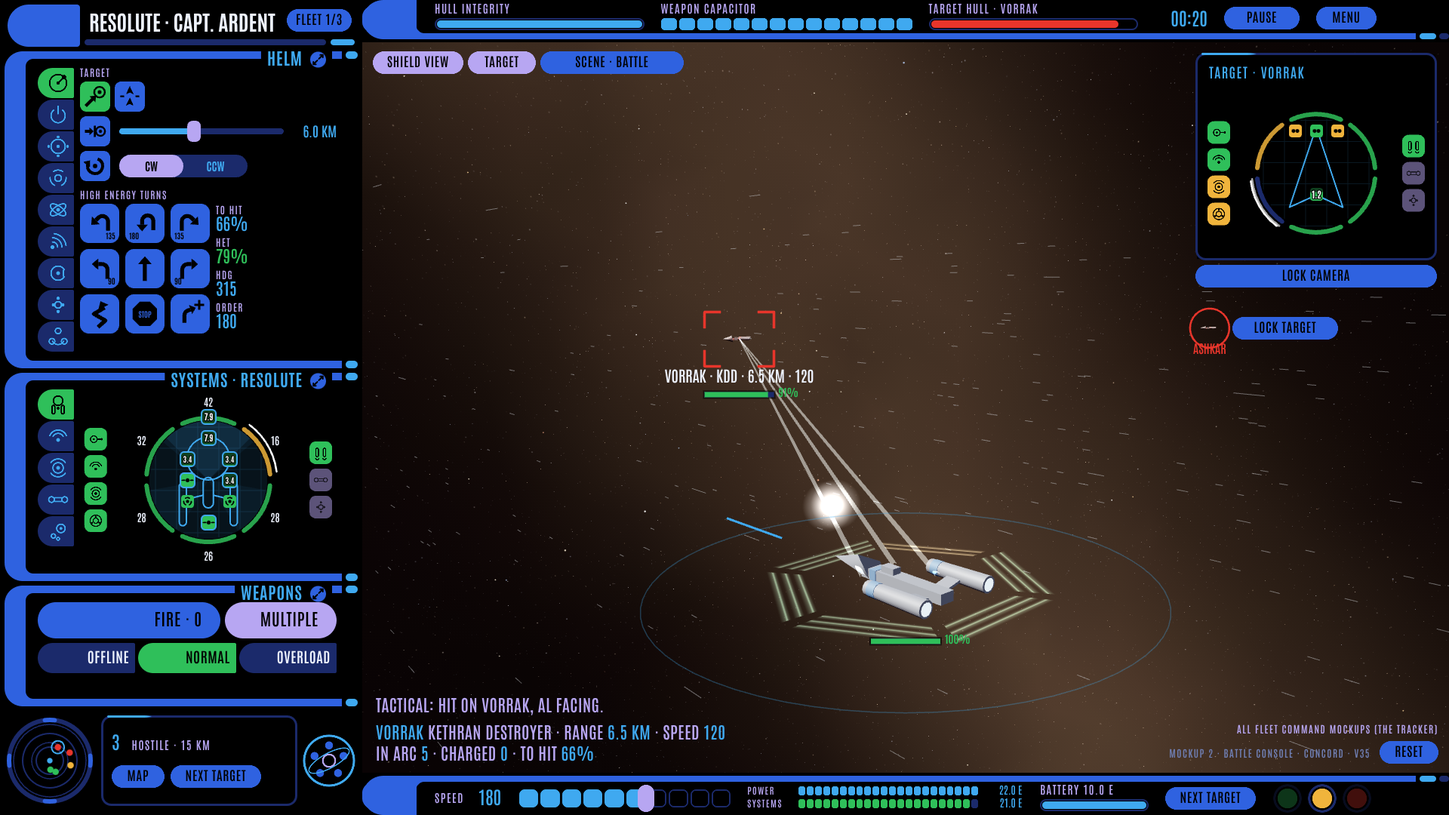
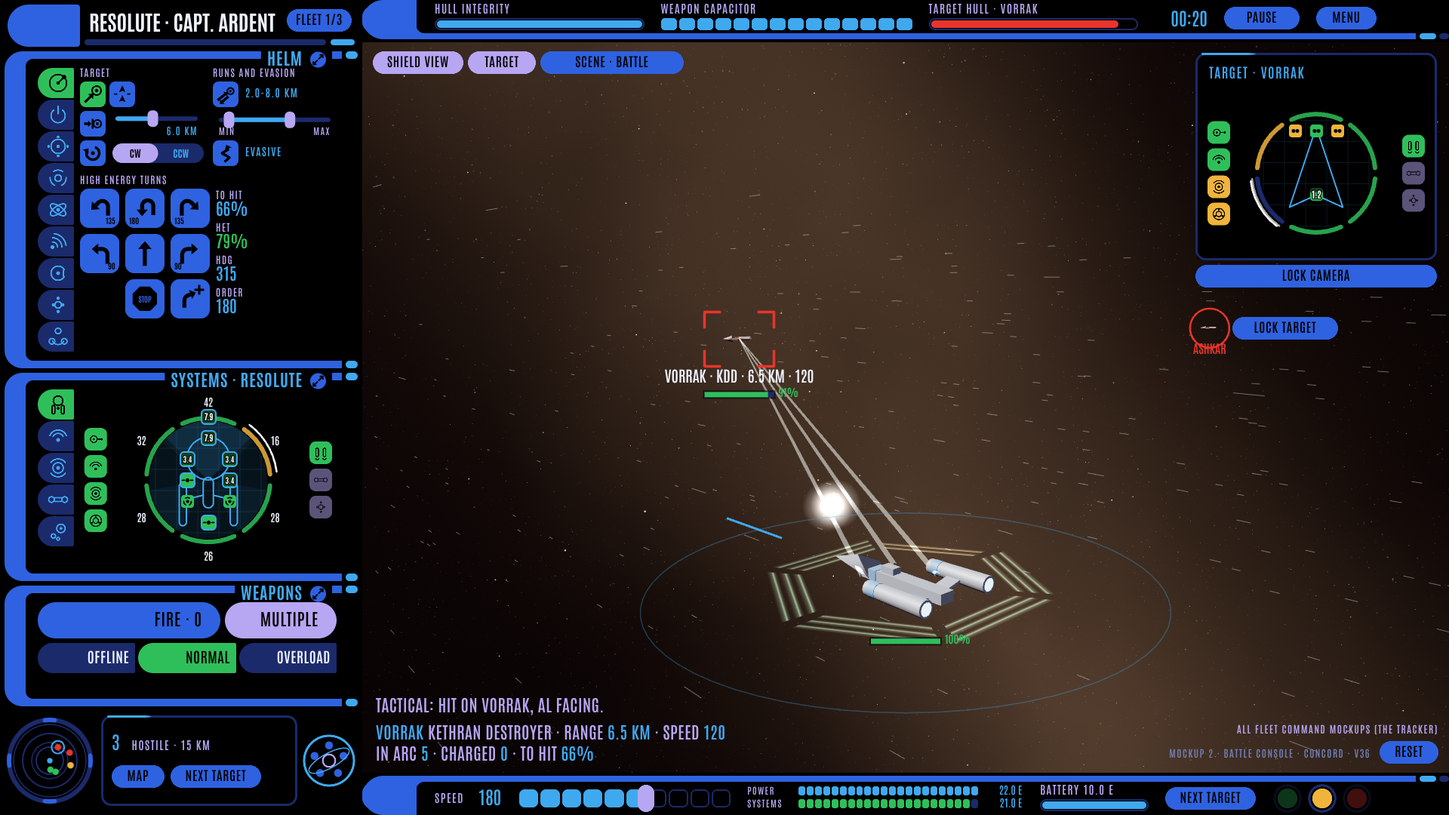
Battle console v36: a big ship explosion; hit and run with a two-handled range slider; evasive manoeuvres as a toggle
Claude-Session: https://claude.ai/code/session_01RGPQuqAYNNJKpzbbbZ3BfB

Changed region(s): [[0.0312, 0.0611, 0.25, 0.4278]]

diff --git a/docs/mockups/battle-console.html b/docs/mockups/battle-console.html
@@ -733,7 +733,7 @@ function makeShip(d) {
     scan: { id: null, p: 0 }, tractor: 'off', powerT: 0, beam: null, relock: null, mineCool: 0, bumpT: 0, raid: null, party: null, guard: BOARD.guard_crew, captured: false, team: { ...TEAM_DEFAULT, ...(c.team || {}) }, cargo: 0, cargoCap: 20, vip: null, shuttles: 0, missiles: 0, barrage: 0, barrageT: 0, pd: 'auto', transporter: 1, marines: c.marines, mines: c.mines, fighters: c.fighters, mission: 'attack',
     reactor: { coils: [0, 0, 0], conf: 1, loops: [{ flow: 1, hp: 1 }, { flow: 1, hp: 1 }], temp: 50, melt: 0, warned: false, coolant: 1 }, brown: 1, overdraw: false,
     warp: { banks: 0, plot: 0, plotH: null, plotting: false, override: false, nacelles: [{ hp: 1 }, { hp: 1 }], out: 0 },
-    het: null, hetChance: clamp(0.95 - c.len_m / 2000, 0.6, 0.95), broke: 0, erratic: false, estop: false, estopT: 0, orbitDir: 1, holdKm: 6,
+    het: null, hetChance: clamp(0.95 - c.len_m / 2000, 0.6, 0.95), broke: 0, erratic: false, estop: false, estopT: 0, orbitDir: 1, holdKm: 6, runMin: 2, runMax: 8, runPhase: 'in',
     alert: 'yellow', priority: 'engines', alive: true, flash: [0, 0, 0, 0, 0, 0], thinkT: 0, volley: true, intercepts: 0 };
 }
 let sceneId = 'battle';
@@ -963,7 +963,7 @@ function reactorStep(s) {
 }
 function meltdown(s) {
   s.alive = false; s.hull = 0; s.v = 0;
-  boomAt(s.x, s.z, CLASSES[s.cls].len_m / M_PER_U * 2.5); const o = MODELS.get(s.id); if (o) o.g.visible = false;
+  bigBoom(s.x, s.z, CLASSES[s.cls].len_m / M_PER_U * 1.6, FACTION[s.faction].hull); const o = MODELS.get(s.id); if (o) o.g.visible = false;
   say('Engineering', `${s.name}: reactor meltdown.`);
   for (const t of W.ships) if (t.alive && distKm(s, t) <= REACTOR.blast_km) damage(t, s, REACTOR.blast_dmg * (1 - distKm(s, t) / REACTOR.blast_km), 'hull');
   for (const o2 of W.ships) if (o2.target === s.id) o2.target = null;
@@ -1002,6 +1002,10 @@ function steer(s, order, t, rangeKm) {
     s.hOrder = d2 > 2 ? Math.atan2(ax - s.x, -(az - s.z)) : t.h; s.vOrder = clamp(Math.abs(t.v) + (d2 > 2 ? d2 * 20 : 0), 0, vmax); }
   // approach and hold a distance (owner, 2026-11-02: "also need approach and maintain distance"), set by its slider
   else if (order === 'hold_range') { s.hOrder = d > s.holdKm * 1.1 ? toT : d < s.holdKm * 0.9 ? wrap(toT + P) : wrap(toT + P / 2); s.vOrder = d > s.holdKm * 1.1 || d < s.holdKm * 0.9 ? vmax : Math.max(60, Math.abs(t.v)); }
+  // hit and run (owner, 2026-11-02: "hit and run, to move attack, and move away"): run in at full speed to the minimum
+  // range, then away to the maximum, and again
+  else if (order === 'hit_run') { if (s.runPhase === 'in' && d <= s.runMin) s.runPhase = 'out'; else if (s.runPhase === 'out' && d >= s.runMax) s.runPhase = 'in';
+    s.hOrder = s.runPhase === 'in' ? toT : wrap(toT + P); s.vOrder = vmax; }
   else if (order === 'orbit') { const c2 = clamp((d - HELM.orbit_km) / HELM.orbit_km, -1, 1); s.hOrder = wrap(toT + s.orbitDir * (P / 2 - c2 * P / 4)); }
 }
 // Every ship but the player's thinks twice a second: pick a target by its rule, steer by its stance, fire if free.
@@ -1146,9 +1150,10 @@ function craftStep() {
 const A = {
   turn: (deg) => { const s = W.player; s.engaged = false; s.hOrder = wrap(s.hOrder + deg * DEG); },
   // The helm officer's orders toward the target, toggles: pressing the lit one returns to free heading.
+  runRange: (lo, hi) => { const s = W.player, r2 = (v) => clamp(Math.round(v * 2) / 2, HELM.hold_min_km, HELM.hold_max_km); s.runMin = Math.min(r2(lo), r2(hi) - 0.5); s.runMax = Math.max(r2(hi), s.runMin + 0.5); },
   holdKm: (v) => { W.player.holdKm = clamp(Math.round(v * 2) / 2, HELM.hold_min_km, HELM.hold_max_km); },
   helmOrder: (o) => { const s = W.player; if (o === 'free' || (s.engaged && s.order === o)) { s.engaged = false; say('Helm', 'Free heading.'); return; }
-    if (!tgt(s)) { say('Helm', 'No target.'); return; } s.order = o; s.engaged = true; say('Helm', `${{ intercept: 'Intercepting', trail: 'Trailing', orbit: 'Orbiting', hold_range: `Holding ${km(s.holdKm)} from` }[o]} ${tgt(s).name}.`); },
+    if (!tgt(s)) { say('Helm', 'No target.'); return; } s.order = o; s.engaged = true; say('Helm', `${{ intercept: 'Intercepting', trail: 'Trailing', orbit: 'Orbiting', hold_range: `Holding ${km(s.holdKm)} from`, hit_run: `Hit and run, ${s.runMin}-${s.runMax} km, on` }[o]} ${tgt(s).name}.`); if (o === 'hit_run') s.runPhase = 'in'; },
   orbitDir: () => { const s = W.player; s.orbitDir = -s.orbitDir; },
   // A high energy turn by deg (negative to port), rolled against the HET chance; erratic manoeuvres make it harder.
   het: (deg) => { const s = W.player; if (s.het || s.broke > 0 || !s.alive) return;
@@ -1734,6 +1739,9 @@ function helmGlyph(kind, cx, cy, r, col) {
     if (kind === 'orbit.dir') { G.font = `700 ${Math.round(r * 0.46)}px Antonio`; G.textAlign = 'center'; G.textBaseline = 'middle'; G.fillText(d > 0 ? 'CW' : 'CCW', cx, cy + r * 0.04); G.textBaseline = 'alphabetic'; } }
   else if (kind === 'hold_range') { target(cx + r * 0.42, cy, r * 0.36); line([[cx - r * 0.8, cy], [cx - r * 0.35, cy]]); head(cx - r * 0.12, cy, 0, r * 0.32, r * 0.3);
     G.lineWidth = lw * 0.7; line([[cx - r * 0.02, cy - r * 0.45], [cx - r * 0.02, cy + r * 0.45]]); G.lineWidth = lw; }
+  else if (kind === 'hit_run') { target(cx + r * 0.45, cy - r * 0.3, r * 0.3);
+    line([[cx - r * 0.75, cy + r * 0.55], [cx + r * 0.05, cy - r * 0.08]]); head(cx + r * 0.2, cy - r * 0.2, -0.65, r * 0.32, r * 0.28);
+    line([[cx + r * 0.25, cy + r * 0.2], [cx - r * 0.35, cy + r * 0.72]]); head(cx - r * 0.55, cy + r * 0.9, 2.4, r * 0.32, r * 0.28); }
   else if (kind === 'erratic') { line([[cx - r * 0.1, cy + r * 0.8], [cx + r * 0.35, cy + r * 0.4], [cx - r * 0.35, cy], [cx + r * 0.3, cy - r * 0.38]]); head(cx + r * 0.05, cy - r * 0.78, -P / 2 - 0.45, r * 0.42, r * 0.34); }
   else if (kind === 'estop') { G.beginPath(); for (let i = 0; i < 8; i++) { const a = P / 8 + i * P / 4; G.lineTo(cx + Math.cos(a) * r * 0.8, cy + Math.sin(a) * r * 0.8); } G.closePath(); G.fill();
     G.fillStyle = CC.signal; G.font = `700 ${Math.round(r * 0.46)}px Antonio`; G.textAlign = 'center'; G.textBaseline = 'middle'; G.fillText('STOP', cx, cy + r * 0.03); G.textBaseline = 'alphabetic'; }
@@ -1757,39 +1765,58 @@ function helmKey(id, x, y, sz, kind, name, click, o = {}) {
 function stHelm(b, big) {
   const s = W.player, t = tgt(s), k = big ? 1.5 : 1, gap = 8 * k, row = (b.w - 3 * gap) / 4, ks = Math.min(row, big ? 84 : 52);
   let y = b.y;
-  LBL('Target', b.x, y + 12, 0, CC.lilac, 'left', 13 * k); y += 18 * k;
-  const ordOn = (o) => () => s.engaged && s.order === o, noT = () => !t, ts = Math.round(40 * k), tg = 6 * k;
-  // intercept and trail, then approach with its distance slider and orbit with its direction switch (owner, 2026-11-02:
-  // "add a config button with a slider to change distance. Combine orbit button with cw button, where cw button is a
-  // toggle slider. Do the same for approach button and its slider config as well")
+  // Orders toward the target in the left half; hit and run and evasive manoeuvres in the right (owner, 2026-11-02:
+  // "shrink the target maneuvers so it takes up half the panel, that way we can use the other half for more maneuver
+  // types like hit and run ... this will require a slider with two handles to pick min and max range", and "evasive
+  // maneuvers technically isn't an HET ability ... clicking it is a toggle")
+  const ordOn = (o) => () => s.engaged && s.order === o, noT = () => !t, ts = Math.round(34 * k), tg = 5 * k, half = (b.w - 12 * k) / 2, xr = b.x + half + 12 * k;
+  LBL('Target', b.x, y + 12, 0, CC.lilac, 'left', 13 * k); LBL('Runs and evasion', xr, y + 12, 0, CC.lilac, 'left', 13 * k); y += 18 * k;
+  const y0 = y;
+  // a slider: one handle, or two (min and max) when lo/hi are given
+  const slider = (id, x, yy, w, h, f0, f1, set, label) => {
+    const sy = yy + h / 2, two = f1 !== null;
+    hit(id, x - 8, yy, w + 16, h, { cursor: 'ew-resize', tip: label, drag: (px) => set(clamp((px - x) / w, 0, 1)), click: (px) => set(clamp((px - x) / w, 0, 1)) });
+    g.fillStyle = CC.deep; g.beginPath(); g.roundRect(x, sy - 3, w, 6, 3); g.fill();
+    g.fillStyle = CC.sky; g.beginPath(); g.roundRect(x + (two ? w * f0 : 0), sy - 3, w * ((two ? f1 : f0) - (two ? f0 : 0)), 6, 3); g.fill();
+    for (const f of two ? [f0, f1] : [f0]) { g.fillStyle = CC.lilac; g.beginPath(); g.roundRect(x + w * f - 7, sy - 11, 14, 22, 6); g.fill(); }
+  };
+  const span = HELM.hold_max_km - HELM.hold_min_km, frac = (v) => (v - HELM.hold_min_km) / span, val = (f) => HELM.hold_min_km + f * span;
   helmKey('helm.int', b.x, y, ts, 'intercept', 'Intercept', () => A.helmOrder('intercept'), { on: ordOn('intercept'), dis: noT });
   helmKey('helm.trail', b.x + ts + tg, y, ts, 'trail', 'Trail and match speed', () => A.helmOrder('trail'), { on: ordOn('trail'), dis: noT });
   y += ts + tg;
   helmKey('helm.hold', b.x, y, ts, 'hold_range', 'Approach and hold distance', () => A.helmOrder('hold_range'), { on: ordOn('hold_range'), dis: noT });
-  { const sx = b.x + ts + tg + 6, sw = b.w - (ts + tg + 6) - 70 * k, sy = y + ts / 2, f = (s.holdKm - HELM.hold_min_km) / (HELM.hold_max_km - HELM.hold_min_km);
-    hit('helm.holdkm', sx - 8, y, sw + 16, ts, { drag: (px) => A.holdKm(HELM.hold_min_km + clamp((px - sx) / sw, 0, 1) * (HELM.hold_max_km - HELM.hold_min_km)), click: (px) => A.holdKm(HELM.hold_min_km + clamp((px - sx) / sw, 0, 1) * (HELM.hold_max_km - HELM.hold_min_km)), cursor: 'ew-resize', tip: 'Distance to hold' });
-    g.fillStyle = CC.deep; g.beginPath(); g.roundRect(sx, sy - 4, sw, 8, 4); g.fill(); g.fillStyle = CC.sky; g.beginPath(); g.roundRect(sx, sy - 4, sw * f, 8, 4); g.fill();
-    g.fillStyle = CC.lilac; g.beginPath(); g.roundRect(sx + sw * f - 9, sy - 14, 18, 28, 7); g.fill();
-    NUM(km(s.holdKm), b.x + b.w, sy + 8 * k, 70 * k, CC.sky, 'right', 18 * k); }
+  { const sx = b.x + ts + tg + 8, sw = half - ts - tg - 16; slider('helm.holdkm', sx, y, sw, ts * 0.6, frac(s.holdKm), null, (f) => A.holdKm(val(f)), 'Distance to hold');
+    LBL(km(s.holdKm), sx + sw, y + ts - 2, 0, CC.sky, 'right', 13 * k); }
   y += ts + tg;
   helmKey('helm.orbit', b.x, y, ts, 'orbit', `Orbit (${s.orbitDir > 0 ? 'clockwise' : 'anticlockwise'})`, () => A.helmOrder('orbit'), { on: ordOn('orbit'), dis: noT });
   { // the direction switch: a two-way toggle, the lit half the way the orbit goes
-    const sx = b.x + ts + tg + 6, sw = Math.min(b.w - (ts + tg + 6), 170 * k), sh = ts - 10, sy = y + 5, half = sw / 2, cw = s.orbitDir > 0;
+    const sx = b.x + ts + tg + 4, sw = half - ts - tg - 4, sh = ts - 8, sy = y + 4, hh = sw / 2, cw = s.orbitDir > 0;
     hit('helm.odir', sx, sy, sw, sh, { click: A.orbitDir, tip: 'Orbit direction' });
     g.fillStyle = CC.deep; g.beginPath(); g.roundRect(sx, sy, sw, sh, sh / 2); g.fill();
-    g.fillStyle = CC.lilac; g.beginPath(); g.roundRect(sx + (cw ? 0 : half), sy, half, sh, sh / 2); g.fill();
-    g.font = `700 ${Math.round(15 * k)}px Antonio`; g.textAlign = 'center'; g.textBaseline = 'middle';
-    g.fillStyle = cw ? '#000' : CC.sky; g.fillText('CW', sx + half / 2, sy + sh / 2 + 1); g.fillStyle = cw ? CC.sky : '#000'; g.fillText('CCW', sx + half * 1.5, sy + sh / 2 + 1); g.textBaseline = 'alphabetic'; }
+    g.fillStyle = CC.lilac; g.beginPath(); g.roundRect(sx + (cw ? 0 : hh), sy, hh, sh, sh / 2); g.fill();
+    g.font = `700 ${Math.round(13 * k)}px Antonio`; g.textAlign = 'center'; g.textBaseline = 'middle';
+    g.fillStyle = cw ? '#000' : CC.sky; g.fillText('CW', sx + hh / 2, sy + sh / 2 + 1); g.fillStyle = cw ? CC.sky : '#000'; g.fillText('CCW', sx + hh * 1.5, sy + sh / 2 + 1); g.textBaseline = 'alphabetic'; }
+  // the right half: hit and run with its two-handled range slider, then evasive manoeuvres (a toggle)
+  let yr = y0;
+  helmKey('helm.run', xr, yr, ts, 'hit_run', `Hit and run (${s.runPhase === 'in' ? 'running in' : 'pulling away'})`, () => A.helmOrder('hit_run'), { on: ordOn('hit_run'), dis: noT });
+  LBL(`${s.runMin.toFixed(1)}-${s.runMax.toFixed(1)} KM`, xr + ts + tg + 4, yr + ts * 0.62, half - ts - tg, CC.sky, 'left', 14 * k);
+  yr += ts + tg;
+  { const sx = xr + 8, sw = half - 16, f0 = frac(s.runMin), f1 = frac(s.runMax);
+    slider('helm.runkm', sx, yr, sw, ts * 0.7, f0, f1, (f) => { const v = val(f); if (Math.abs(f - f0) <= Math.abs(f - f1)) A.runRange(v, s.runMax); else A.runRange(s.runMin, v); }, 'Hit and run: nearest and farthest range');
+    LBL('Min', sx, yr + ts - 2, 0, CC.lilac, 'left', 12 * k); LBL('Max', sx + sw, yr + ts - 2, 0, CC.lilac, 'right', 12 * k); }
+  yr += ts + tg;
+  helmKey('helm.err', xr, yr, ts, 'erratic', 'Evasive manoeuvres', A.erratic, { on: () => s.erratic, onCol: CC.lilac });
+  LBL(s.erratic ? 'Evasive: on' : 'Evasive', xr + ts + tg + 4, yr + ts * 0.62, half - ts - tg, s.erratic ? CC.lilac : CC.sky, 'left', 14 * k);
   y += ts + 12 * k;
   LBL('High energy turns', b.x, y + 12, 0, CC.lilac, 'left', 13 * k); y += 18 * k;
   const busy = () => !!s.het || s.broke > 0 || s.battery < HET.cost_e;
   const pad = [[['het.l135', 'HET hard left 135', -135], ['het.180', 'HET 180', 180], ['het.r135', 'HET hard right 135', 135]],
     [['het.l90', 'HET left 90', -90], ['free', 'Free heading', 0], ['het.r90', 'HET right 90', 90]],
-    [['erratic', 'Erratic manoeuvres', 0], ['estop', 'Emergency stop', 0], ['het.free', 'HET free angle: click the view', 0]]];
+    [['none', '', 0], ['estop', 'Emergency stop', 0], ['het.free', 'HET free angle: click the view', 0]]];
   pad.forEach((r2, ri) => r2.forEach(([kind, name, deg], ci) => {
     const x = b.x + ci * (ks + gap), yy = y + ri * (ks + gap);
+    if (kind === 'none') return;
     if (kind === 'free') helmKey('helm.free', x, yy, ks, 'free', name, () => A.helmOrder('free'), { on: () => !s.engaged, onCol: CC.sky });
-    else if (kind === 'erratic') helmKey('helm.err', x, yy, ks, 'erratic', name, A.erratic, { on: () => s.erratic, onCol: CC.lilac });
     else if (kind === 'estop') helmKey('helm.stop', x, yy, ks, 'estop', s.estopT > 0 ? `Engines holding ${fmtCool(s.estopT)} s` : name, A.estop, { on: () => s.estop || s.estopT > 0, onCol: CC.caution });
     else if (kind === 'het.free') helmKey('helm.hetf', x, yy, ks, 'het.free', name, A.hetFree, { on: () => placingHet, onCol: CC.lilac, dis: busy });
     else helmKey(`helm.${kind}`, x, yy, ks, kind, name, () => A.het(deg), { dis: busy });
@@ -2595,7 +2622,55 @@ function modelFor(s) {
 const fx = new THREE.Group(); scene.add(fx);
 const beamGeo = new THREE.CylinderGeometry(0.05, 0.05, 1, 6, 1, true); beamGeo.translate(0, 0.5, 0); beamGeo.rotateX(P / 2);
 const booms = [];
-function boom(s) { boomAt(s.x, s.z, CLASSES[s.cls].len_m / M_PER_U); const o = MODELS.get(s.id); if (o) o.g.visible = false; }
+function boom(s) { bigBoom(s.x, s.z, CLASSES[s.cls].len_m / M_PER_U, FACTION[s.faction].hull); const o = MODELS.get(s.id); if (o) o.g.visible = false; }
+// A ship's death (owner, 2026-11-02: "can we design a big cool looking explosion like this?", with a reference shot of
+// a starship blowing apart): our own layers, all additive light except the debris. A white-hot core that flashes and
+// fades through pink; a plasma cloud of magenta, violet and blue puffs that swell and drift; a flat blue shockwave ring
+// racing out across the battle plane; sparks flung out fast; and the hull broken into tumbling dark chunks, each
+// burning for a while. Timings and sizes in EXPLODE (seconds, and multiples of the ship's length in units).
+const EXPLODE = { core_s: 1.6, core_x: 5, ring_s: 2.4, ring_x: 9, cloud_s: 5, cloud_x: 5.5, sparks: 60, sparks_s: 1.8, chunks: 9, chunks_s: 8, chunk_speed_u_s: 2.2 };
+const cloudTex = (() => { const R = rng(SCENARIO.seed + 21); const c = paint(128, 128, (x) => { for (let i = 0; i < 26; i++) { const px = 64 + (R() - 0.5) * 70, py = 64 + (R() - 0.5) * 70, rr = 14 + R() * 30, g2 = x.createRadialGradient(px, py, 0, px, py, rr);
+  g2.addColorStop(0, `rgba(255,255,255,${0.25 + R() * 0.25})`); g2.addColorStop(1, 'rgba(255,255,255,0)'); x.fillStyle = g2; x.fillRect(0, 0, 128, 128); }
+  // faded to nothing at the border, so no square edge shows
+  x.globalCompositeOperation = 'destination-in'; const m = x.createRadialGradient(64, 64, 20, 64, 64, 64); m.addColorStop(0, 'rgba(0,0,0,1)'); m.addColorStop(1, 'rgba(0,0,0,0)'); x.fillStyle = m; x.fillRect(0, 0, 128, 128); }); const tx = new THREE.CanvasTexture(c); return tx; })();
+const ringTex = (() => { const c = paint(256, 256, (x) => { const g2 = x.createRadialGradient(128, 128, 0, 128, 128, 128); g2.addColorStop(0, 'rgba(120,170,255,0)'); g2.addColorStop(0.55, 'rgba(90,150,255,0.15)');
+  g2.addColorStop(0.86, 'rgba(150,200,255,0.9)'); g2.addColorStop(0.93, 'rgba(255,255,255,1)'); g2.addColorStop(1, 'rgba(120,170,255,0)'); x.fillStyle = g2; x.fillRect(0, 0, 256, 256); }); return new THREE.CanvasTexture(c); })();
+const EXPLOSIONS = [];
+function bigBoom(x, z, size, hullCol) {
+  const R = rng(Math.floor(x * 131 + z * 71 + W.t * 1000) >>> 0), add = (m) => { scene.add(m); return m; };
+  // the explosion's light is kept out of tone mapping, so its colours stay saturated instead of blowing out to white
+  const spr = (tex, col) => add(new THREE.Sprite(new THREE.SpriteMaterial({ map: tex, color: col, blending: THREE.AdditiveBlending, depthWrite: false, transparent: true, toneMapped: false })));
+  const e = { t: 0, x, z, size, core: spr(glowTex, 0xffffff), ring: null, clouds: [], sparks: null, chunks: [] };
+  e.core.position.set(x, 0.3, z);
+  e.ring = add(new THREE.Mesh(new THREE.PlaneGeometry(2, 2), new THREE.MeshBasicMaterial({ map: ringTex, color: 0x4f8cff, blending: THREE.AdditiveBlending, depthWrite: false, transparent: true, side: THREE.DoubleSide, toneMapped: false })));
+  e.ring.rotation.x = -P / 2; e.ring.position.set(x, 0.05, z);
+  for (const [i, col] of [0xff3fa0, 0xb04dff, 0x4f7bff, 0xff6ac8, 0x7a4dff, 0xff9ad8].entries()) {
+    const c = spr(cloudTex, col); c.userData = { dx: (R() - 0.5) * size * 0.8, dz: (R() - 0.5) * size * 0.8, dy: 0.2 + R() * 0.6, s: 0.7 + R() * 0.6, spin: (R() - 0.5) * 0.6 }; c.material.rotation = R() * 6.28; e.clouds.push(c); }
+  const n = EXPLODE.sparks, pos = new Float32Array(n * 3), vel = []; for (let i = 0; i < n; i++) { const a = R() * 2 * P, el = (R() - 0.3) * 0.8, sp = (3 + R() * 9) * size / 3; vel.push([Math.cos(a) * sp, el * sp, Math.sin(a) * sp]); pos.set([x, 0.3, z], i * 3); }
+  const sg = new THREE.BufferGeometry(); sg.setAttribute('position', new THREE.BufferAttribute(pos, 3));
+  e.sparks = add(new THREE.Points(sg, new THREE.PointsMaterial({ color: 0xffc070, size: 0.2, blending: THREE.AdditiveBlending, depthWrite: false, transparent: true, toneMapped: false }))); e.sparks.userData = { vel, pos, sg };
+  for (let i = 0; i < EXPLODE.chunks; i++) {
+    const sz = size * (0.12 + R() * 0.22), m = add(new THREE.Mesh(new THREE.BoxGeometry(sz * (1 + R()), sz * 0.5, sz * (0.6 + R() * 1.4)), new THREE.MeshStandardMaterial({ color: hullCol, roughness: 0.7, metalness: 0.3, emissive: 0x401000, emissiveIntensity: 0.6 })));
+    const a = R() * 2 * P, sp = EXPLODE.chunk_speed_u_s * (0.4 + R()); m.position.set(x, 0, z); m.userData = { v: [Math.cos(a) * sp, (R() - 0.5) * 0.4, Math.sin(a) * sp], w: [(R() - 0.5) * 3, (R() - 0.5) * 3, (R() - 0.5) * 3], fire: spr(glowTex, 0xff8a40) };
+    e.chunks.push(m); }
+  EXPLOSIONS.push(e); return e;
+}
+// Every frame: each explosion's layers by its age.
+function explosionsStep(dt) {
+  const E = EXPLODE;
+  for (const e of EXPLOSIONS) {
+    e.t += dt; const t = e.t, sz = e.size;
+    const kc = t / E.core_s; e.core.scale.setScalar(sz * E.core_x * (0.4 + Math.min(1, kc * 3) * 0.8 + kc * 0.6)); e.core.material.opacity = Math.max(0, 1 - kc * kc) * 0.9;
+    e.core.material.color.setRGB(1, 1 - Math.min(1, kc) * 0.45, 1 - Math.min(1, kc) * 0.2);
+    const kr = t / E.ring_s, ease = 1 - Math.pow(1 - Math.min(1, kr), 3); e.ring.scale.setScalar(Math.max(0.01, sz * E.ring_x * ease)); e.ring.material.opacity = Math.max(0, 1 - kr);
+    const kl = t / E.cloud_s; for (const c of e.clouds) { const u = c.userData; c.position.set(e.x + u.dx * (1 + kl * 2), u.dy, e.z + u.dz * (1 + kl * 2)); c.scale.setScalar(sz * E.cloud_x * u.s * (0.35 + Math.sqrt(Math.min(1, kl)) * 0.9)); c.material.rotation += u.spin * dt; c.material.opacity = Math.max(0, Math.min(1, kl * 6) * (1 - kl)) * 0.42; }
+    const ks = t / E.sparks_s, sd = e.sparks.userData; for (let i = 0; i < sd.vel.length; i++) { sd.pos[i * 3] += sd.vel[i][0] * dt; sd.pos[i * 3 + 1] += sd.vel[i][1] * dt; sd.pos[i * 3 + 2] += sd.vel[i][2] * dt; } sd.sg.attributes.position.needsUpdate = true; e.sparks.material.opacity = Math.max(0, 1 - ks);
+    const kd = t / E.chunks_s; for (const m of e.chunks) { const u = m.userData; m.position.x += u.v[0] * dt; m.position.y += u.v[1] * dt; m.position.z += u.v[2] * dt; m.rotation.x += u.w[0] * dt; m.rotation.y += u.w[1] * dt; m.rotation.z += u.w[2] * dt;
+      u.fire.position.copy(m.position); u.fire.scale.setScalar(sz * 0.5 * (1 - kd * 0.7)); u.fire.material.opacity = Math.max(0, 0.9 - kd * 1.2); m.material.emissiveIntensity = Math.max(0, 0.6 - kd); m.material.transparent = kd > 0.8; m.material.opacity = Math.max(0, 1 - Math.max(0, kd - 0.8) * 5); }
+    if (t > Math.max(E.cloud_s, E.chunks_s)) { e.done = true; for (const o of [e.core, e.ring, e.sparks, ...e.clouds, ...e.chunks, ...e.chunks.map((m) => m.userData.fire)]) scene.remove(o); }
+  }
+  for (let i = EXPLOSIONS.length - 1; i >= 0; i--) if (EXPLOSIONS[i].done) EXPLOSIONS.splice(i, 1);
+}
 function boomAt(x, z, size) { const sp = new THREE.Sprite(new THREE.SpriteMaterial({ map: glowTex, color: 0xffb070, blending: THREE.AdditiveBlending, depthWrite: false, transparent: true })); sp.position.set(x, 0, z); scene.add(sp); booms.push({ sp, t: 0, size }); }
 const SHOT_POOL = [];
 // Asteroids in the 3D view: a lumpy grey rock per W.rocks entry, rebuilt when the world changes.
@@ -2636,6 +2711,7 @@ function syncScene(dt) {
   for (const c of W.craft) { const sp = take('glow'); sp.position.set(c.x, 0.1, c.z); sp.scale.setScalar(0.35); sp.material.color.setHex(0x9fd0ff); }
   for (const mn of W.mines) { const sp = take('glow'); sp.position.set(mn.x, 0, mn.z); sp.scale.setScalar(0.5); sp.material.color.setHex(mn.arm > 0 ? 0x806020 : 0xffb030); }
   for (let i = n; i < SHOT_POOL.length; i++) SHOT_POOL[i].obj.visible = false;
+  explosionsStep(dt);
   for (const b of booms) { b.t += dt; const k = b.t / 1.4; b.sp.scale.setScalar(b.size * (1 + k * 4)); b.sp.material.opacity = Math.max(0, 1 - k); if (k >= 1) { scene.remove(b.sp); b.done = true; } }
   for (let i = booms.length - 1; i >= 0; i--) if (booms[i].done) booms.splice(i, 1);
 }
@@ -2822,7 +2898,7 @@ function uiView() {
     button('v.camlock', bx, by + ir[3] + 6, ir[2], 30, camLock ? 'Camera locked' : 'Lock camera', A.camLock, { sel: () => camLock, center: true });
   }
   if (lock) button('v.lock', lock[0], lock[1], 140, 30, 'Lock target', () => A.lock(lock[2]), { center: true });
-  LBL('Mockup 2 · Battle console · Concord · v35', vx + vw - 104, vy + vh - 20, 0, '#6f7fb4', 'right', 13);
+  LBL('Mockup 2 · Battle console · Concord · v36', vx + vw - 104, vy + vh - 20, 0, '#6f7fb4', 'right', 13);
   button('v.reset', vx + vw - 92, vy + vh - 42, 78, 30, 'Reset', A.reset, { center: true });
   if (sceneOpen) {
     // a click anywhere else closes the list
@@ -2850,7 +2926,9 @@ function uiSheet() {
     button('sheet.resume', P0.x, yy, P0.w, 48, 'Resume', A.menu); yy += 66; LBL('Test scene', P0.x, yy); yy += 10;
     const sl = Object.entries(SCENES).map(([k, v]) => [k, v.name]);
     tabs('sheet.scene', P0.x, yy, P0.w, 44, sl.slice(0, 4), sceneId, A.scene); yy += 50; tabs('sheet.scene2', P0.x, yy, P0.w, 44, sl.slice(4), sceneId, A.scene); yy += 70; LBL('Mockup', P0.x, yy); yy += 10;
-    button('sheet.hit', P0.x, yy, P0.w, 48, 'Take a hit', () => { takeHit(); menuOpen = false; }); yy += 56;
+    const hw4 = (P0.w - 8) / 2;
+    button('sheet.hit', P0.x, yy, hw4, 48, 'Take a hit', () => { takeHit(); menuOpen = false; }, { center: true });
+    button('sheet.boom', P0.x + hw4 + 8, yy, hw4, 48, 'Destroy target', () => { const t = tgt(W.player); if (t) { t.hull = 0; t.alive = false; t.v = 0; boom(t); say('Tactical', `${t.name} destroyed.`); for (const o of W.ships) if (o.target === t.id) o.target = null; } menuOpen = false; }, { center: true, dis: () => !tgt(W.player) }); yy += 56;
     button('sheet.restart', P0.x, yy, P0.w, 48, `Restart ${SCENES[sceneId].name.toLowerCase()}`, () => { A.reset(); menuOpen = false; }); yy += 56;
     button('sheet.quit', P0.x, yy, P0.w, 48, 'Quit to campaign map', () => {}, { dis: () => true });
   }
@@ -2946,6 +3024,9 @@ window.MOCKUP_SHOTS = {
   shields_tip: () => { scripted(600, () => { shipTab = 'shields'; const sh = W.player.shields; sh[0] = 12; sh[1] = 22; sh[4] = 6; W.player.reinforce = 0; }); HOT = 'shx.1'; },
   ssd_tip: () => { scripted(600, () => { damagedSystems(); }); HOT = 'ssd.sys.engines'; },
   battle: () => scripted(600),
+  // the explosion, frozen at a given age (seconds), the Vorrak destroyed in front of the camera
+  explosion: () => { scripted(600, () => { const s = W.player, v = ship('vorrak'); s.h = 0; s.hOrder = 0; v.x = s.x + 3; v.z = s.z - 26; v.hull = 0; v.alive = false; boom(v); }); explosionsStep(0.7); },
+  explosion_late: () => { scripted(600, () => { const s = W.player, v = ship('vorrak'); s.h = 0; s.hOrder = 0; v.x = s.x + 3; v.z = s.z - 26; v.hull = 0; v.alive = false; boom(v); }); explosionsStep(2.2); },
   // the target bracket with a seeker lock: the torpedoes charged, the Vorrak ahead inside 18 km
   seeker_lock: () => scripted(600, () => { const s = W.player, v = ship('vorrak'); s.target = 'vorrak'; focus = 'vorrak'; s.h = 0; s.hOrder = 0; v.x = s.x; v.z = s.z - 110; for (const m of s.mounts) if (WEAPONS[m.w].kind === 'torpedo') m.charge = 1; }),
   cam_locked: () => { scripted(600); camLock = true; },

diff --git a/docs/mockups/tracker.html b/docs/mockups/tracker.html
@@ -111,7 +111,7 @@ const MOCKUPS = [
     url: 'https://claude.ai/artifact/UBbAouwAU3JvcbGf6MhzLt', published: '2026-10-30', version: 5,
     summary: 'Main menu, skirmish (scenario, point budget, fleet and loadout), the campaign hex map with standees, port panels and missions, deploy, a stand-in battle, results, and back to the map.' },
   { id: 'M2', title: 'In-game UI', change: 'battle-console', page: 'docs/mockups/battle-console.html',
-    url: 'https://claude.ai/artifact/9yertq3bYQRmFiDE7N9eBs', published: '2026-11-02', version: 35,
+    url: 'https://claude.ai/artifact/9yertq3bYQRmFiDE7N9eBs', published: '2026-11-02', version: 36,
     summary: 'The battle console in the Concord skin around a live stand-in battle, desktop first: nine stations and five ship pages on narrow columns of icon tabs named on hover, the ship systems display, weapons, radar and tactical map, a speed handle, Power over Systems with the battery, and the power station\'s Reactor mode: a diagram of the core, coils and coolant loops worked by hand, with a meltdown to avoid. Every panel works and expands.' },
   { id: 'M3', title: 'Look dev', change: 'look-dev', page: 'docs/mockups/look-dev.html',
     url: '', published: '', version: 0,

diff --git a/openspec/changes/battle-console/design.md b/openspec/changes/battle-console/design.md
@@ -288,6 +288,26 @@ The energy in the tractor is drawn every second like any other system, so holdin
 shields. In the 3D view the beam is a pale line from holder to held, brighter as the grip tightens. An enemy holds you
 only by turning your beam; whether enemies should start a hold on their own is B11.
 
+## 4k. The explosion, and the helm's second half (version 36)
+
+**A ship's death** (owner, 2026-11-02: "can we design a big cool looking explosion like this?", with a shot of a starship
+blowing apart in the reference game; our own layers, not its art): a white-hot **core** that flashes to five ship lengths
+and fades through pink in 1.6 s; a flat blue **shockwave ring** racing out across the battle plane to nine ship lengths in
+2.4 s, easing out; a **plasma cloud** of six magenta, violet and blue puffs that swell and drift for 5 s; 60 **sparks**
+flung out for 1.8 s; and the hull broken into nine dark **chunks** that tumble away, each burning for a while, over 8 s.
+The light is kept out of tone mapping so its colours stay saturated. A meltdown uses the same explosion, larger. The
+menu's **Destroy target** key shows it on demand; the shots `explosion` (0.7 s) and `explosion_late` (2.2 s) hold it.
+
+**The helm's target section takes the left half** (owner: "shrink the target maneuvers so it takes up half the panel, that
+way we can use the other half for more maneuver types like hit and run, to move attack, and move away. this will require
+a slider with two handles to pick min and max range"). The right half, **Runs and evasion**: **Hit and run** runs in at
+full speed to the minimum range, then away to the maximum, and again, its range set by a **two-handled slider** (the
+handle nearest the pointer moves; at least 0.5 km apart); measured with 3-6 km: in from 9.3 km, out at 3.0, in at 6.0,
+repeating every 45-50 s. **Evasive manoeuvres** moved here from the HET pad (owner: "evasive maneuvers technically isn't
+an HET ability btw, so clicking it is a toggle and doesn't consume HET ability"): a toggle; it never spends the HET
+chance (it still makes a HET likelier to fail while it is on, after the reference game). The pad's bottom row keeps the
+emergency stop (under free heading) and the free-angle HET.
+
 ## 4j. Hull bars in the view, and steering in the expanded view (version 34)
 
 Owner, 2026-11-02: "can you show enemy ship health in this? and my ship health too? always show current targeted enemy

diff --git a/docs/artifacts/battle-console/README.md b/docs/artifacts/battle-console/README.md
@@ -53,3 +53,4 @@
 - Version 33 published 2026-11-02, version id `1793590141-f06b`: the helm rebuilt from the SFC2 manual's Helm Officer display (target orders, a HET pad, erratic, emergency stop, HET chance); a red target bracket with a double frame on a seeker lock; fresnel shield keys with centred names; the expanded weapons panel as the ship with Fire keys and a detail half; ready weapons outlined dashed white; ships four times tougher.
 - Version 34 published 2026-11-02, version id `1793590854-3845`: hull bars in the view under the targeted enemy and your ship (docked and expanded); the helm ring steers in the expanded view.
 - Version 35 published 2026-11-02, version id `1793591099-eefd`: helm icons redrawn like signage (road-sign turn arrows, U-turn, straight ahead, STOP); Approach and hold distance with its distance slider; Orbit with a CW/CCW switch.
+- Version 36 published 2026-11-02, version id `1793595050-ad9c`: a big ship explosion (white-hot core, blue shockwave ring, plasma cloud, sparks, burning chunks; Destroy target in the menu); the helm's target orders in the left half, Hit and run with a two-handled range slider and Evasive manoeuvres (a toggle, out of the HET pad) in the right.

diff --git a/mockup-work.md b/mockup-work.md
@@ -22,7 +22,7 @@ account and every link here is updated.
 | # | Mockup | Stage | OpenSpec change | Page | Link |
 |---|---|---|---|---|---|
 | 1 | Primary game flow | Drafted (2026-10-30, v5) | `game-flow` | `docs/mockups/game-flow.html` | https://claude.ai/artifact/UBbAouwAU3JvcbGf6MhzLt |
-| 2 | In-game UI | Drafted (2026-11-02, v35) | `battle-console` | `docs/mockups/battle-console.html` | https://claude.ai/artifact/9yertq3bYQRmFiDE7N9eBs |
+| 2 | In-game UI | Drafted (2026-11-02, v36) | `battle-console` | `docs/mockups/battle-console.html` | https://claude.ai/artifact/9yertq3bYQRmFiDE7N9eBs |
 | 3 | Look dev | Listed | `look-dev` (to write) | `docs/mockups/look-dev.html` | |
 | 4 | Console skins | Drafted (2026-10-31, v25) | `console-skins` | `docs/mockups/console-skins.html` | https://claude.ai/artifact/UTpgsPvZJrLfkEUmJN7CVb |
 
